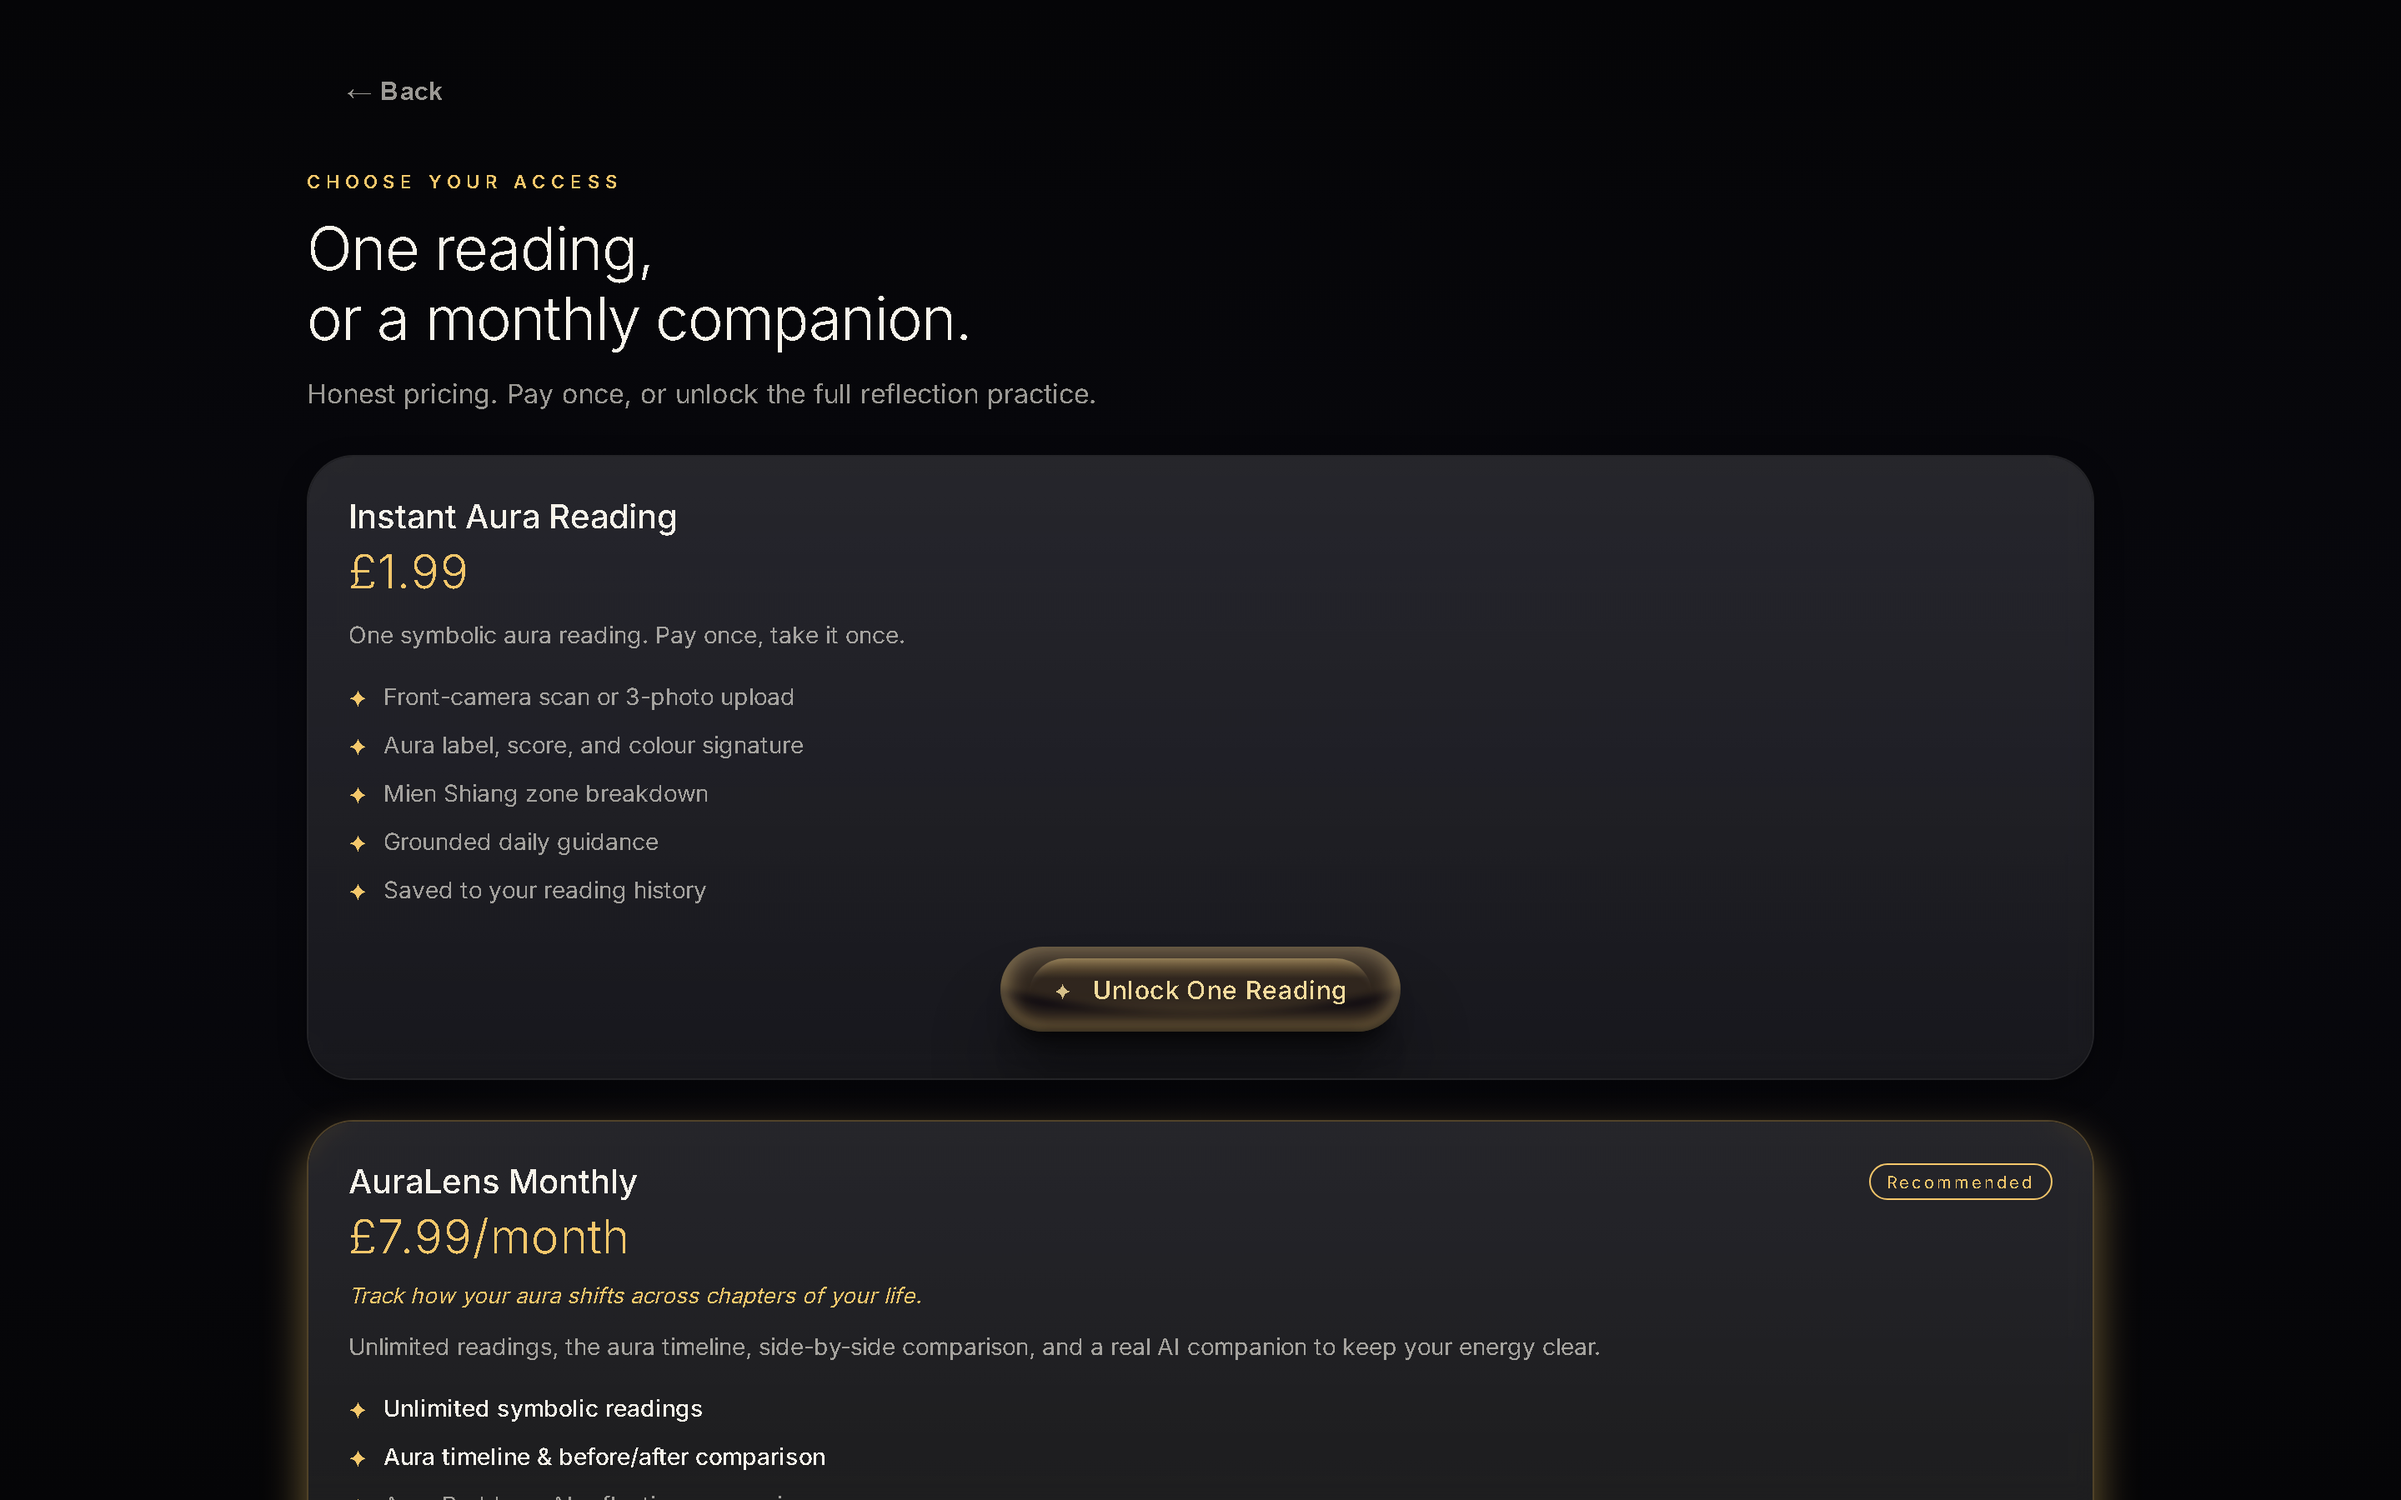
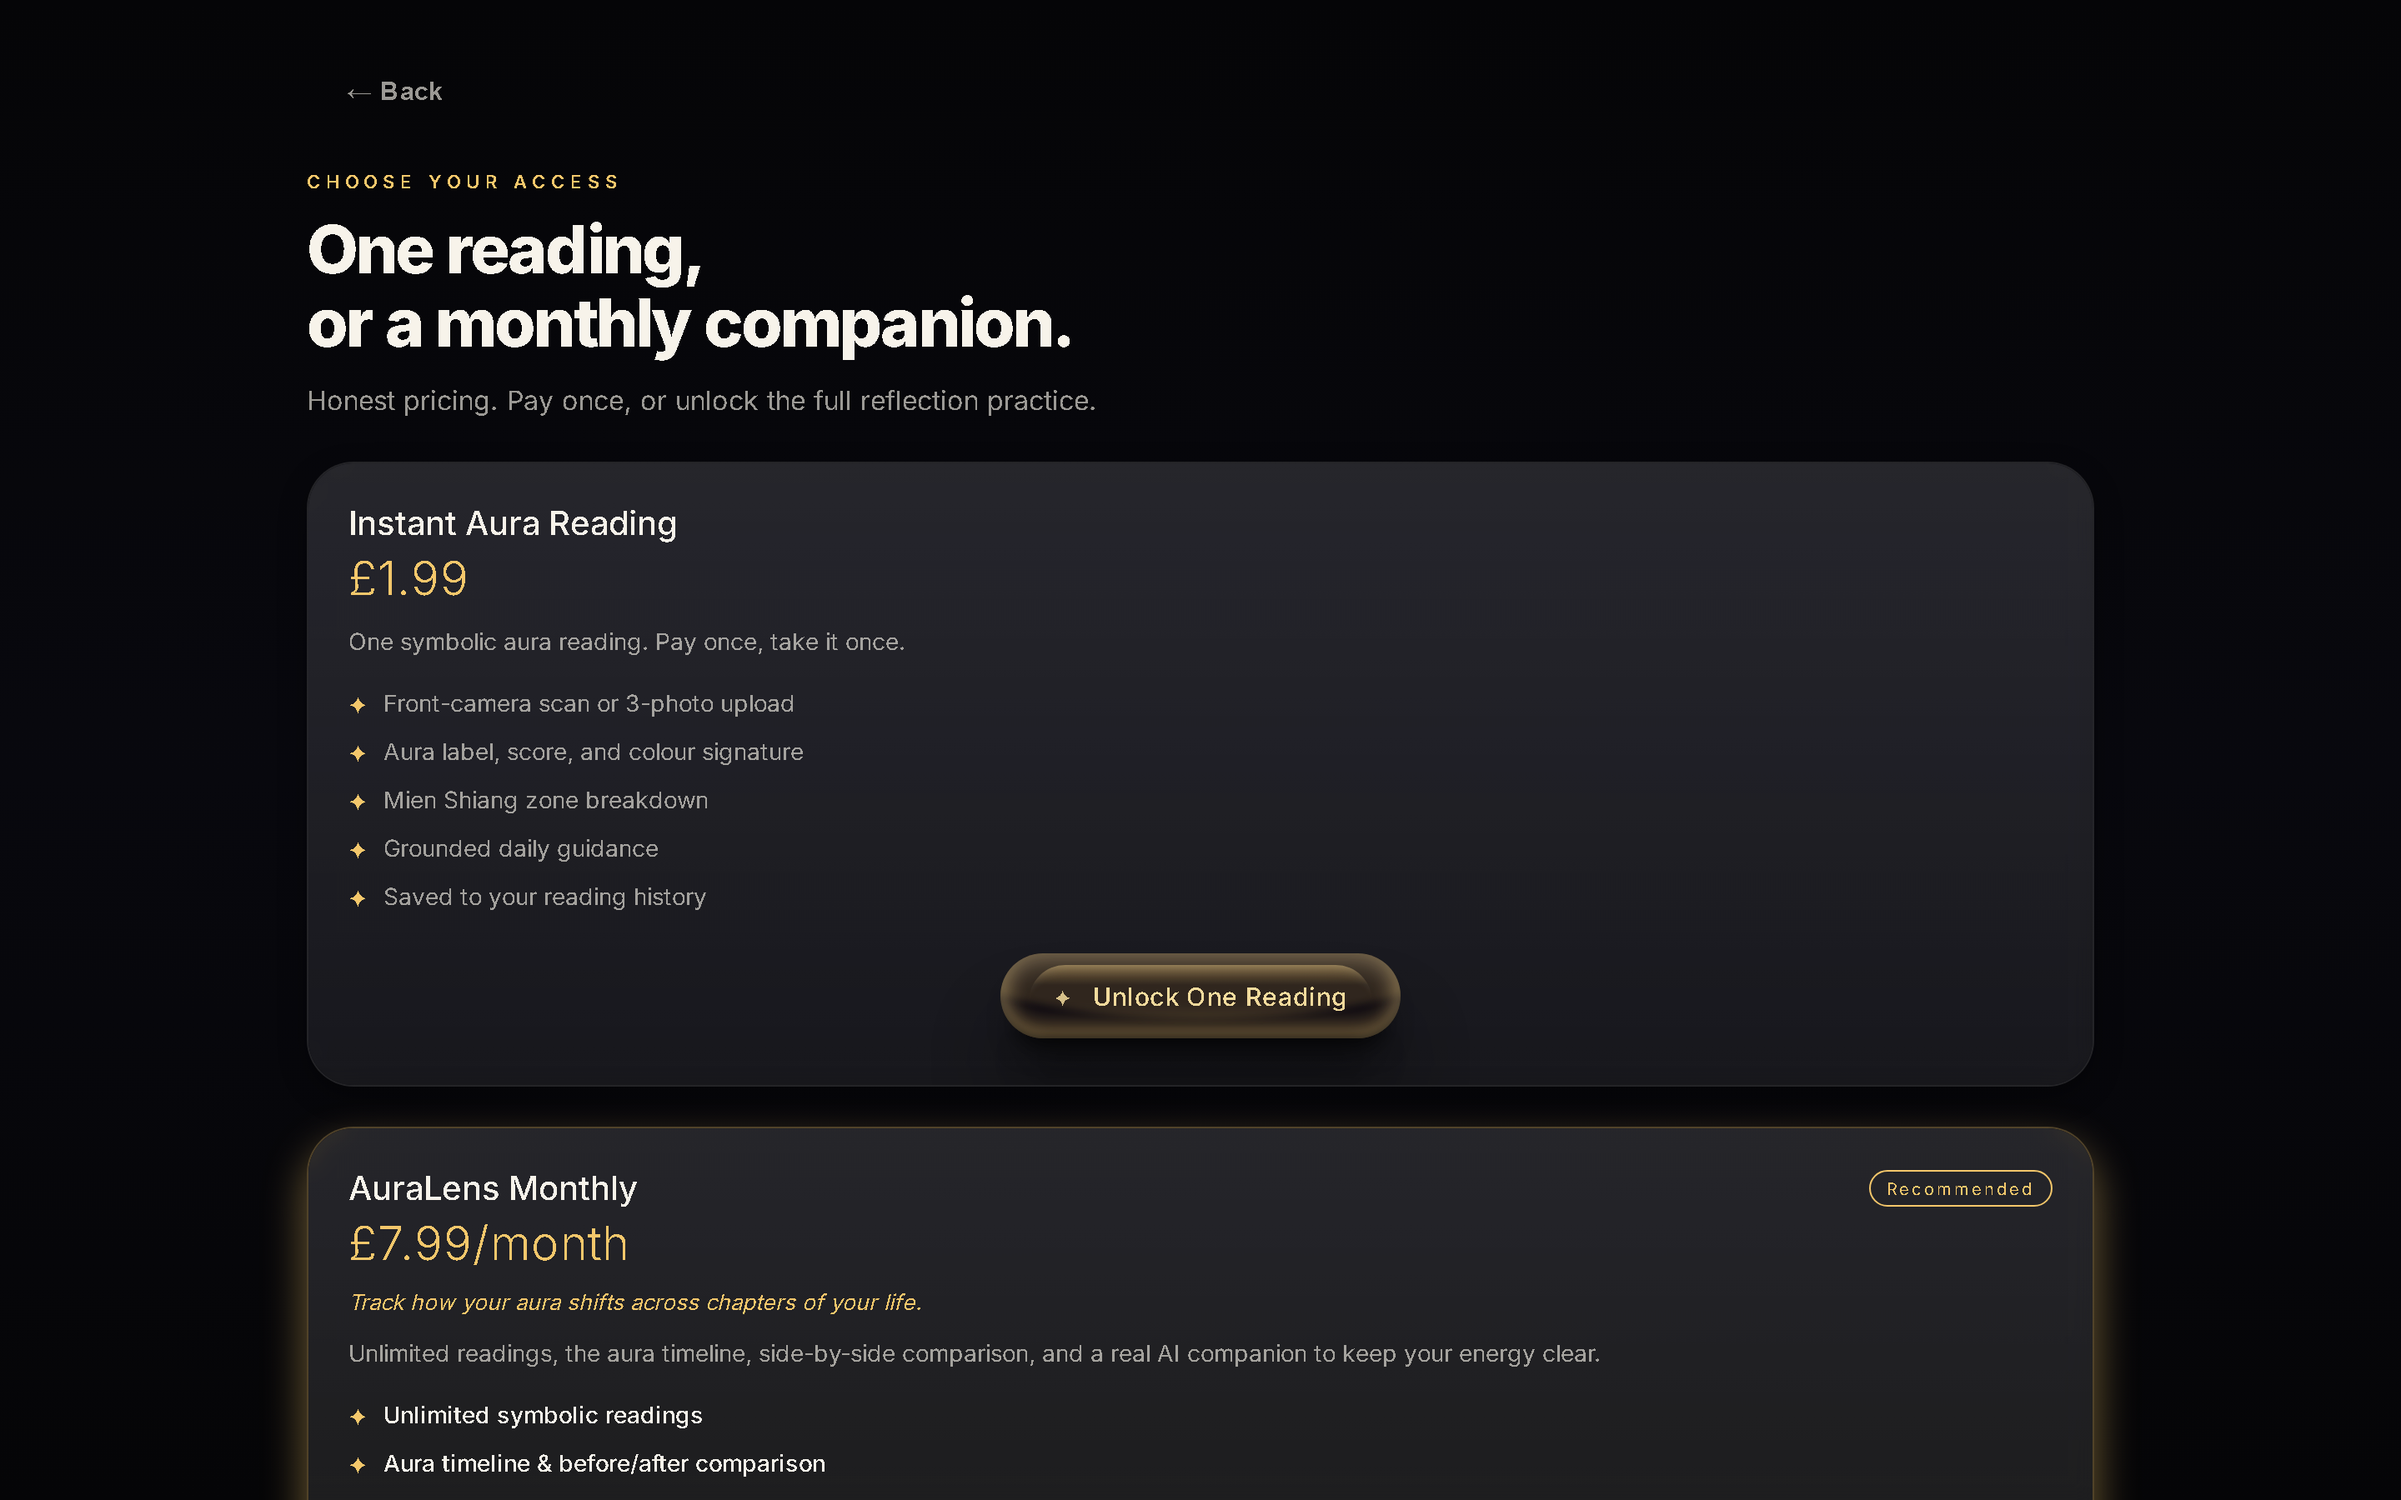
Title 56px (fits 2 lines at 800 weight) + thinner ScreenContainer wash so shader actually shows

diff --git a/app/index.tsx b/app/index.tsx
@@ -185,14 +185,14 @@ const styles = StyleSheet.create({
   },
   titleBlock: { marginTop: 14, gap: 0 },
   titleWide: {
-    fontSize: 64,
-    lineHeight: 68,
-    letterSpacing: -2.4,
+    fontSize: 56,
+    lineHeight: 60,
+    letterSpacing: -2.0,
   },
   titleNarrow: {
-    fontSize: 48,
-    lineHeight: 52,
-    letterSpacing: -1.6,
+    fontSize: 44,
+    lineHeight: 48,
+    letterSpacing: -1.4,
   },
   sub: {
     marginTop: 22,

diff --git a/components/ScreenContainer.tsx b/components/ScreenContainer.tsx
@@ -39,7 +39,7 @@ export function ScreenContainer({
           On native this is fully opaque — the shader doesn't run there. */}
       <LinearGradient
         colors={IS_WEB
-          ? ['rgba(5,5,7,0.55)', 'rgba(10,10,18,0.62)', 'rgba(5,5,7,0.78)']
+          ? ['rgba(5,5,7,0.18)', 'rgba(10,10,18,0.10)', 'rgba(5,5,7,0.42)']
           : ['#050507', '#0A0A12', '#050507']}
         style={StyleSheet.absoluteFill}
       />
